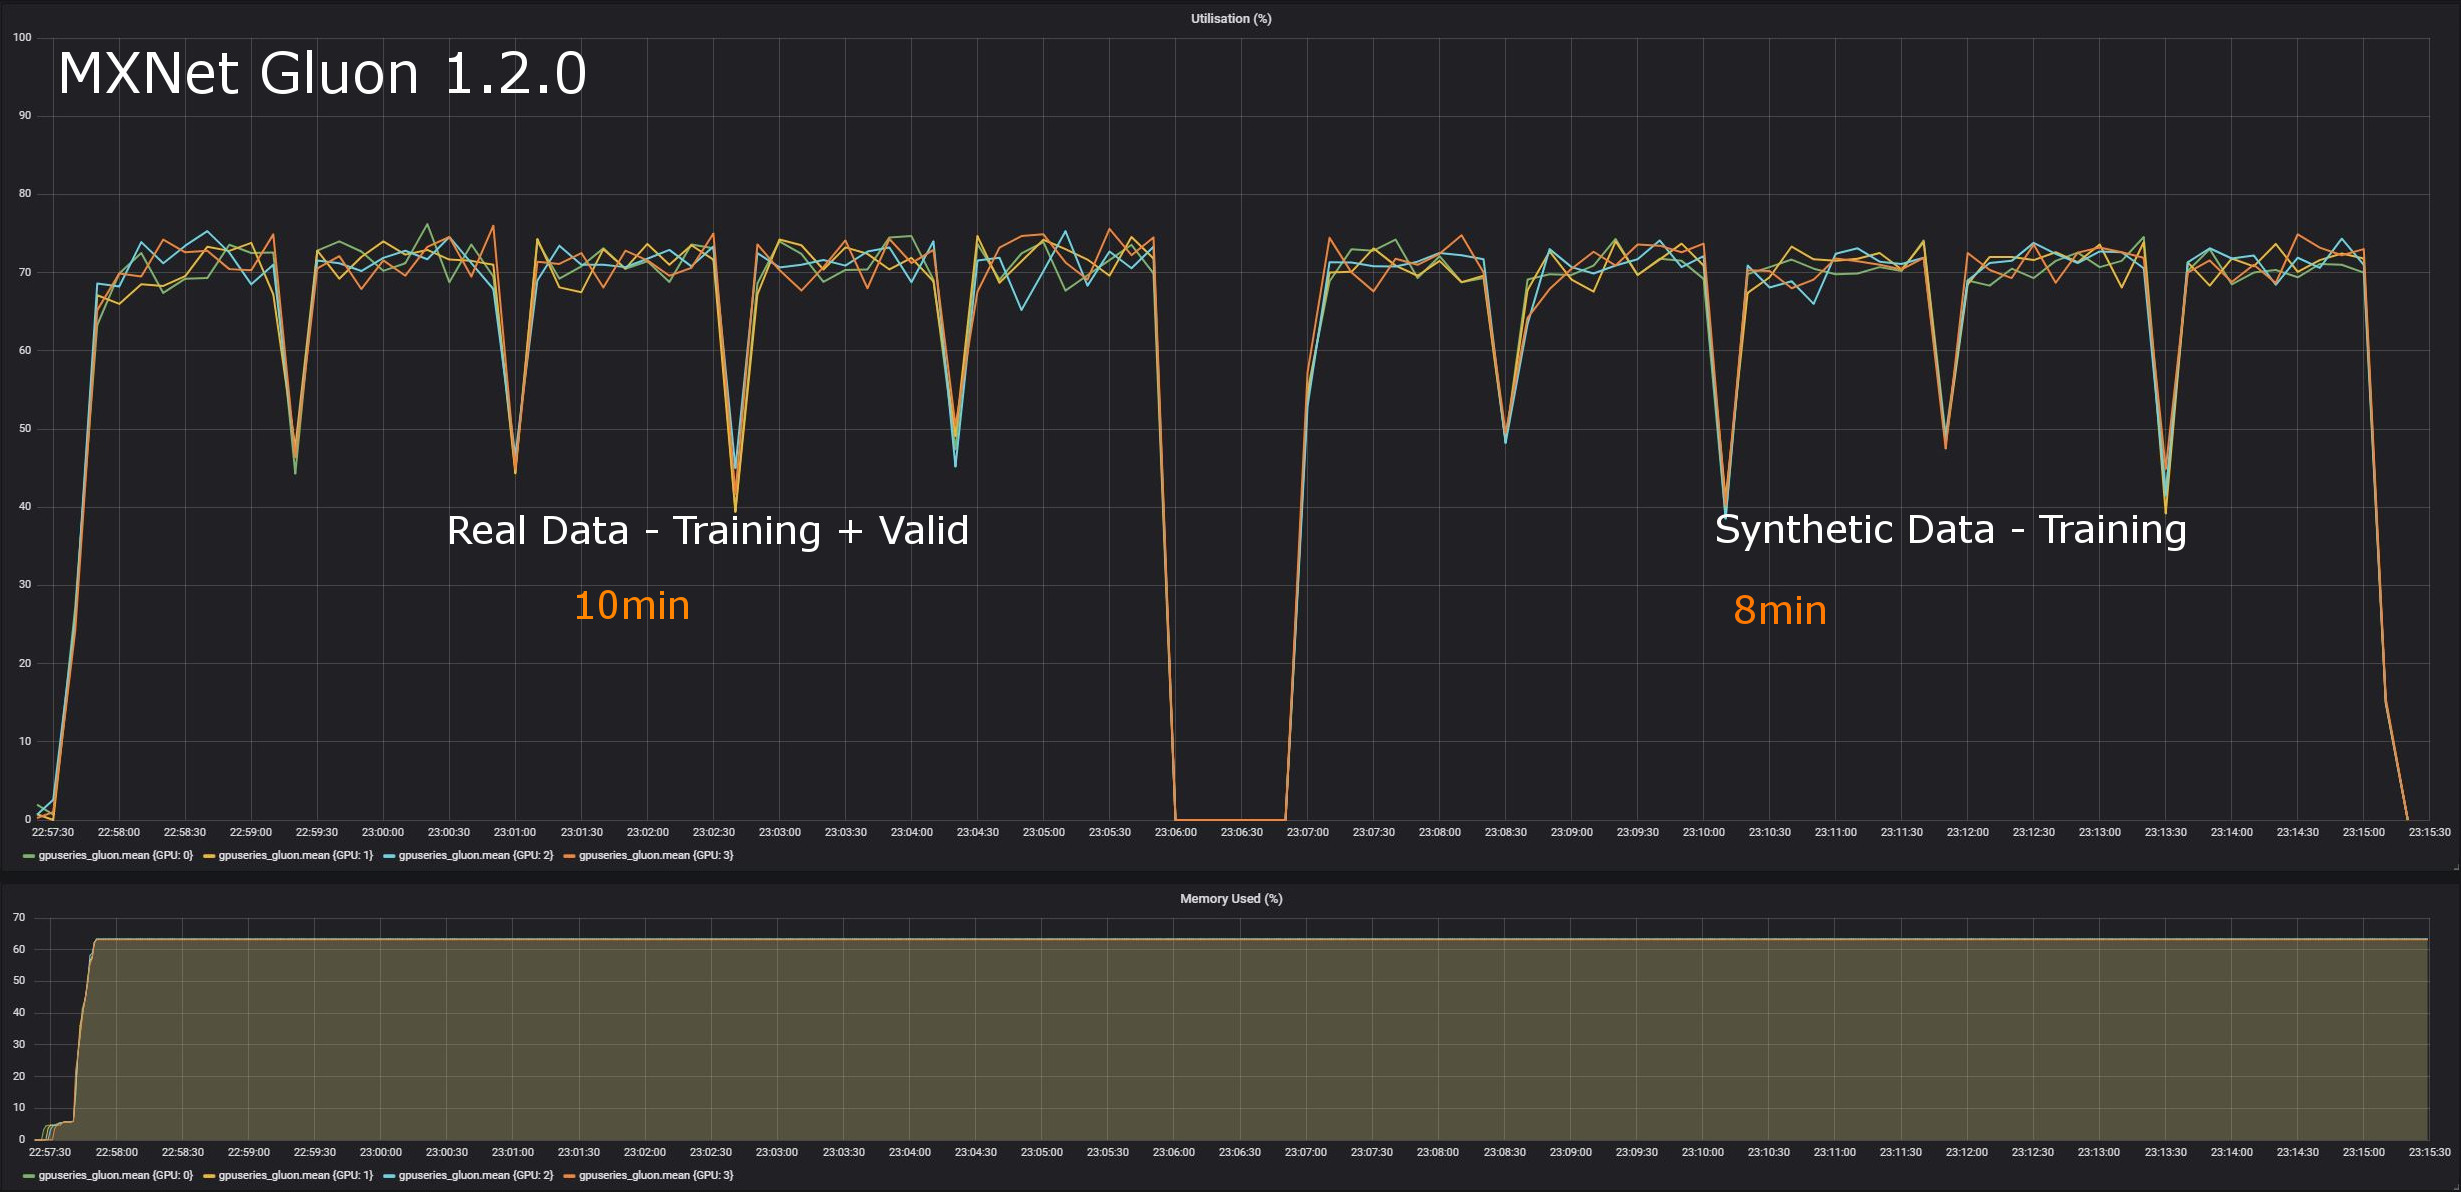
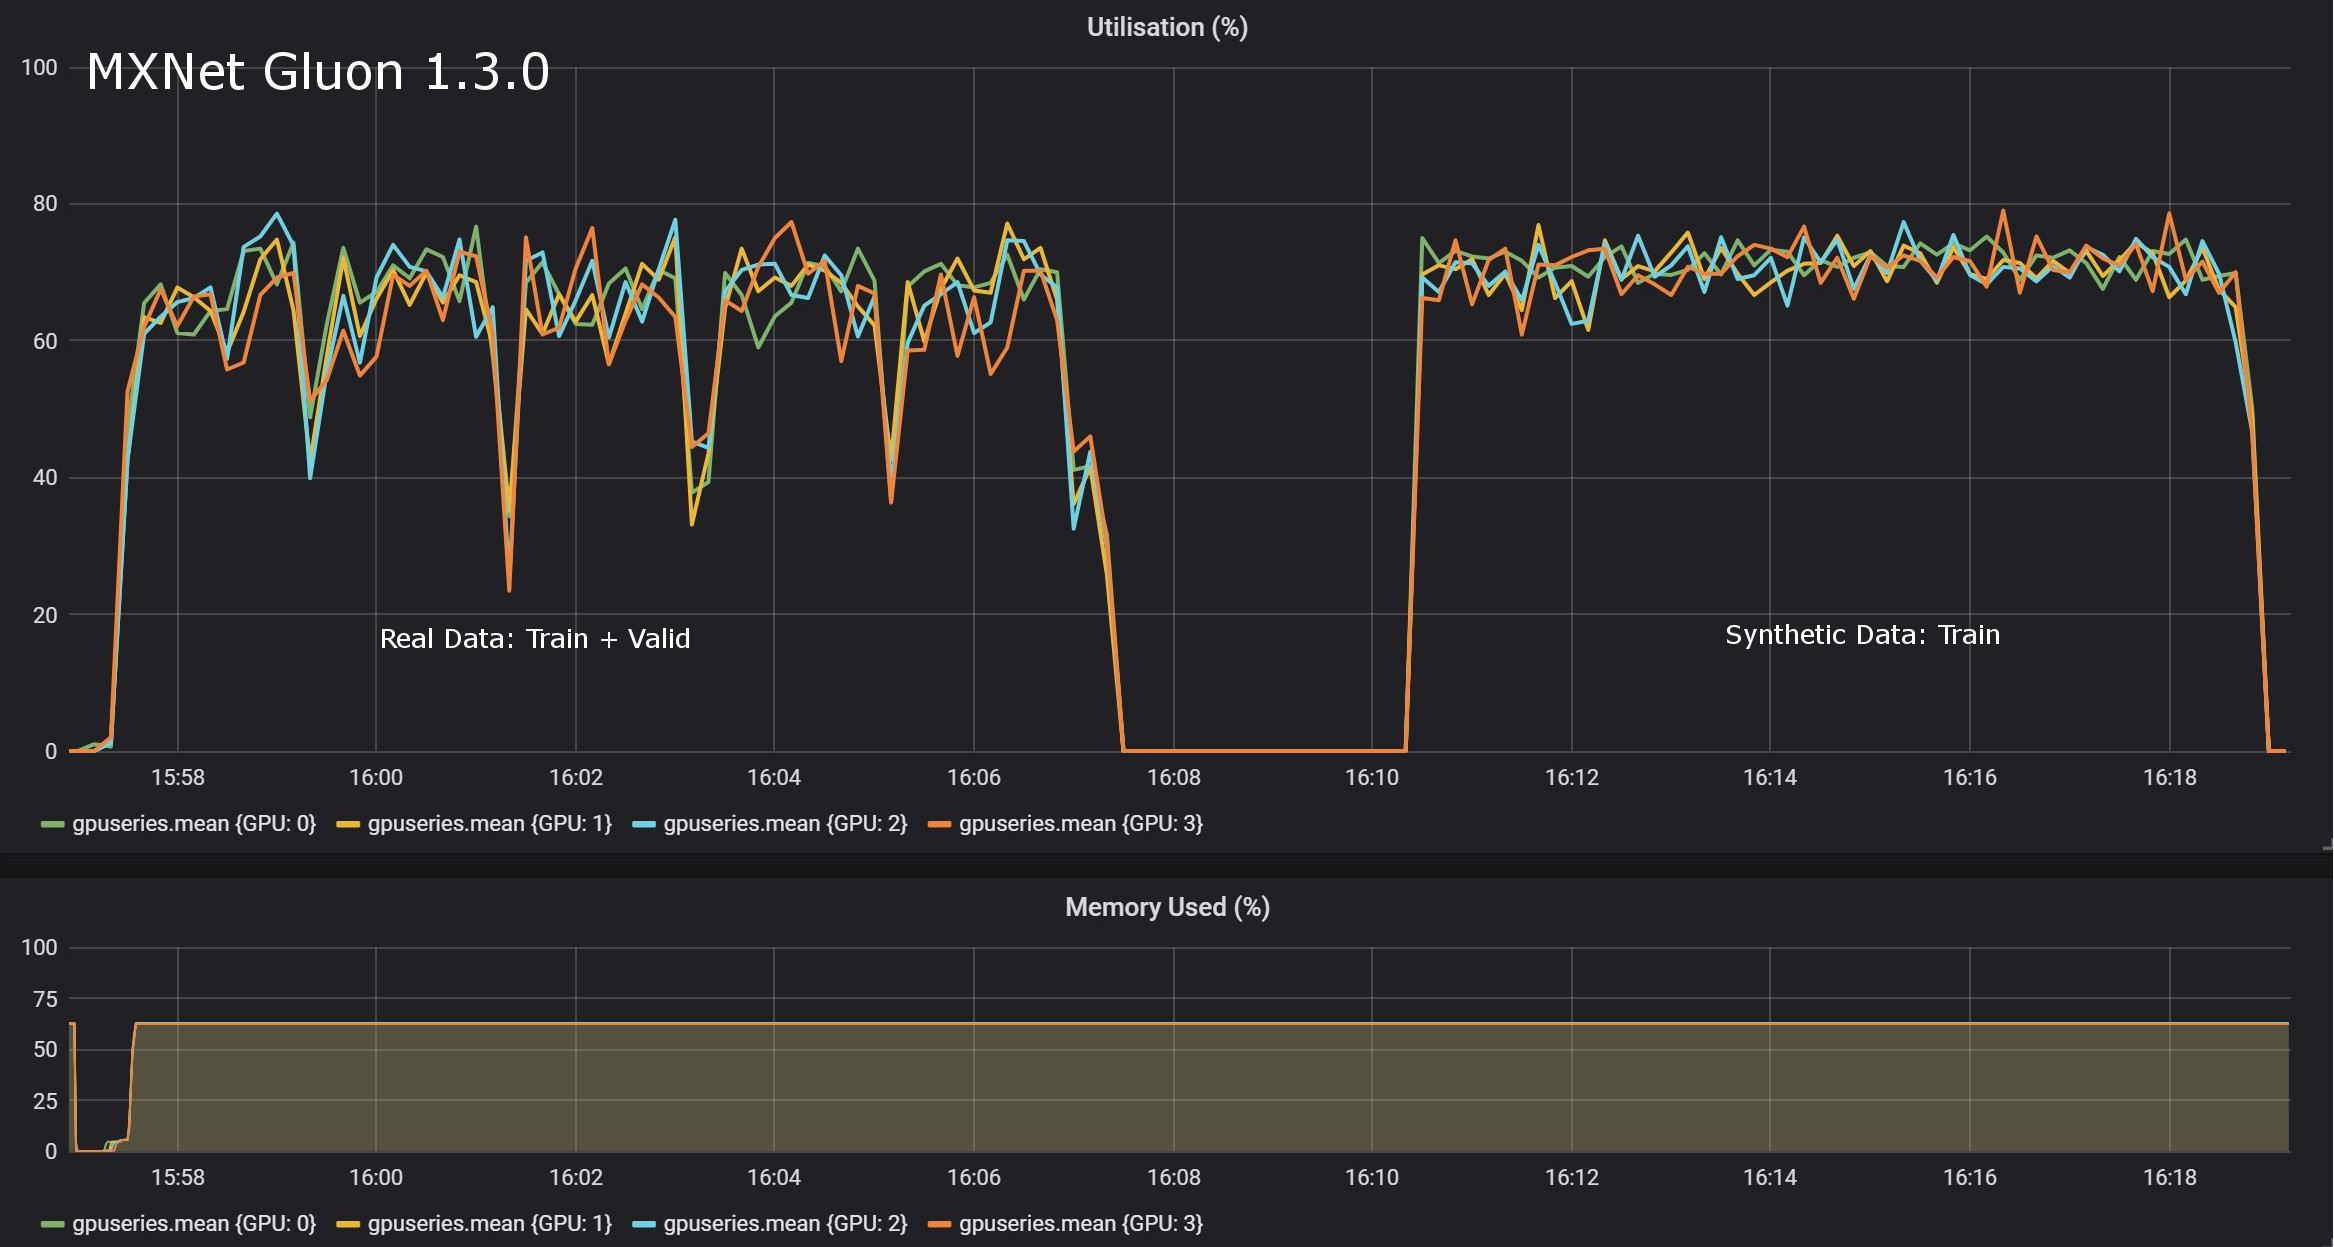
Gluon ReRun
Reran gluon on Azure DSVM and updated results. Fixed common\utils.py
since "!ls" would break linux install

diff --git a/notebooks/common/utils.py b/notebooks/common/utils.py
@@ -37,8 +37,10 @@ def get_gpu_name():
 def get_cuda_version():
     """Get CUDA version"""
     if sys.platform == 'win32':
-        cuda=!ls "C:\Program Files\NVIDIA GPU Computing Toolkit\CUDA"
-        path = "C:\\Program Files\\NVIDIA GPU Computing Toolkit\\CUDA\\" + str(cuda[0]) +"\\version.txt"
+        raise NotImplementedError("Implement this!")
+        # This breaks on linux:
+        #cuda=!ls "C:\Program Files\NVIDIA GPU Computing Toolkit\CUDA"
+        #path = "C:\\Program Files\\NVIDIA GPU Computing Toolkit\\CUDA\\" + str(cuda[0]) +"\\version.txt"
     elif sys.platform == 'linux' or sys.platform == 'darwin':
         path = '/usr/local/cuda/version.txt'
     else:
@@ -53,8 +55,10 @@ def get_cuda_version():
 def get_cudnn_version():
     """Get CUDNN version"""
     if sys.platform == 'win32':
-        cuda=!ls "C:\Program Files\NVIDIA GPU Computing Toolkit\CUDA"
-        candidates = ["C:\\Program Files\\NVIDIA GPU Computing Toolkit\\CUDA\\" + str(cuda[0]) +"\\include\\cudnn.h"]
+        raise NotImplementedError("Implement this!")
+        # This breaks on linux:
+        #cuda=!ls "C:\Program Files\NVIDIA GPU Computing Toolkit\CUDA"
+        #candidates = ["C:\\Program Files\\NVIDIA GPU Computing Toolkit\\CUDA\\" + str(cuda[0]) +"\\include\\cudnn.h"]
     elif sys.platform == 'linux':
         candidates = ['/usr/include/x86_64-linux-gnu/cudnn_v[0-99].h',
                       '/usr/local/cuda/include/cudnn.h',

diff --git a/README.md b/README.md
@@ -55,7 +55,7 @@ Input for this model is the standard [CIFAR-10 dataset](http://www.cs.toronto.ed
 | [Keras(TF)](notebooks/Keras_TF_MultiGPU.ipynb)    | 38min                 | 18min                 |
 | [Tensorflow](notebooks/Tensorflow_MultiGPU.ipynb) | 33min                 | 22min                 |
 | [Chainer](notebooks/Chainer_MultiGPU.ipynb)       | 29min                 | 8min                  |
-| [MXNet(Gluon)](notebooks/Gluon_MultiGPU.ipynb)    | 27min                 | 8min                  |
+| [MXNet(Gluon)](notebooks/Gluon_MultiGPU.ipynb)    | 29min                 | 10min                 |
 
 **Train w/ synthetic-data in RAM**
 
@@ -65,12 +65,11 @@ Input for this model is the standard [CIFAR-10 dataset](http://www.cs.toronto.ed
 | [Keras(TF)](notebooks/Keras_TF_MultiGPU.ipynb)    | 36min                 | 15min                 |
 | [Tensorflow](notebooks/Tensorflow_MultiGPU.ipynb) | 25min                 | 14min                 |
 | [Chainer](notebooks/Chainer_MultiGPU.ipynb)       | 27min                 | 7min                  |
-| [MXNet(Gluon)](notebooks/Gluon_MultiGPU.ipynb)    | 26min                 | 7min                  |
+| [MXNet(Gluon)](notebooks/Gluon_MultiGPU.ipynb)    | 28min                 | 8min                  |
 
 Notes:
 
 1. Chainer suffered an AUC drop relative to all other frameworks when going from single to multi-GPU
-2. Gluon example at time of writing does not seem to work on Azure VMs and the notebook is provided kindly by Thomas who has run it on AWS
 
 Input for this model is 112,120 PNGs of chest X-rays resized to (264, 264). **Note for the notebook to automatically download the data you must install [Azcopy](https://docs.microsoft.com/en-us/azure/storage/common/storage-use-azcopy-linux#download-and-install-azcopy) and increase the size of your OS-Disk in Azure Portal so that you have at-least 45GB of free-space (the Chest X-ray data is large!). The notebooks may take more than 10 minutes to first download the data.** These notebooks train DenseNet-121 and use native data-loaders to pre-process the data perform some augmentations (random horizontal flip and random crop to 224px).
 
